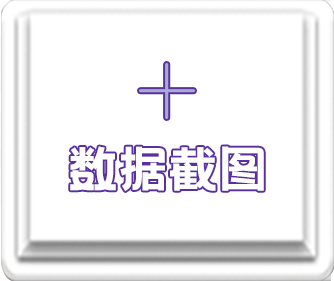
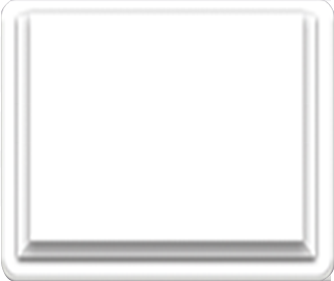
no message

Changed region(s): [[0.1796, 0.5125, 0.8084, 0.7117], [0.3892, 0.1993, 0.5988, 0.427]]

diff --git a/src/views/ProofView.vue b/src/views/ProofView.vue
@@ -21,7 +21,7 @@
                     :on-success="handleAvatarSuccess"
                     :before-upload="beforeAvatarUpload">
                     <img v-if="formData.mediaProof !== ''" :src="formData.mediaProof" class="avatar">
-                    <img v-else src="@/assets/img/proof_pic.png" />
+                    <img v-else src="@/assets/img/proof_pic_content.png"/>
                   </el-upload>
 
                 </div>
@@ -37,7 +37,7 @@
                     :on-success="handleAvatarSuccess2"
                     :before-upload="beforeAvatarUpload2">
                     <img v-if="formData.veidoUrl !== ''" :src="formData.veidoUrl+'?vframe/jpg/offset/0'" class="avatar">
-                    <img v-else src="@/assets/img/proof_video.png" />
+                     <img v-else src="@/assets/img/proof_video_content.png"/>
                   </el-upload>
                  </div>
               </li>
@@ -50,6 +50,7 @@
 
 <script>
 import api from '@/api'
+import router from '@/router'
 
 export default {
   data () {
@@ -95,7 +96,8 @@ export default {
         api.postProof(form).then((res) => {
           this.loading.close()
           if (res.code === 200) {
-            this.$message.success(res.msg)
+            this.$message.success('恭喜你，作业提交成功')
+            router.back()
           } else {
             this.$message.error(res.msg)
           }
@@ -223,20 +225,10 @@ export default {
           const img = new Image()
           img.src = reader.result
           if (img.complete) { // 如果存在浏览器缓存中
-            if (img.height / img.width < 1.2 || img.height / img.width > 1.8) {
-              this.$message.warning('上传的图片尺寸比例不合适，推荐比例4:3')
-              resolve(false)
-            } else {
-              resolve(true)
-            }
+            resolve(true)
           } else {
             img.onload = () => {
-              if (img.height / img.width < 1.2 || img.height / img.width > 1.8) {
-                this.$message.warning('上传的图片尺寸比例不合适，推荐比例4:3')
-                resolve(false)
-              } else {
-                resolve(true)
-              }
+              resolve(true)
             }
           }
         }
@@ -322,14 +314,32 @@ export default {
     padding: 0 22vw;
     margin-top: 2vw;
     .btn_proof_pic{
+      width: 25vw;
+      height: 21vw;
+      background-image: url('@/assets/img/proof_pic.png');
+      background-position: center center;
+      background-repeat: no-repeat;
+      background-size: cover;
       img{
-        width: 25vw;
+        width: 21vw;
+        height: 17vw;
+        margin-top: 1.3vw;
+        border-radius: 1px;
         object-fit: cover;
       }
     }
     .btn_proof_video{
+      width: 25vw;
+      height: 21vw;
+      background-image: url('@/assets/img/proof_video.png');
+      background-position: center center;
+      background-repeat: no-repeat;
+      background-size: cover;
       img{
-        width: 25vw;
+        width: 21vw;
+        height: 17vw;
+        margin-top: 1.3vw;
+        border-radius: 1px;
         object-fit: cover;
       }
     }

diff --git a/src/views/GuideView.vue b/src/views/GuideView.vue
@@ -4,8 +4,8 @@
        <div class="ap_box">
         <ul>
           <li><button class="button_1 magictime boingInUp" @click="gotoApplyView" /></li>
-          <li><button class="button_2 magictime boingInUp" style="animation-delay: 0.2s;" @click="gotoVoteView" /></li>
-          <li><button class="button_3 magictime boingInUp" style="animation-delay: 0.4s;" @click="gotoProofView" /></li>
+          <!-- <li><button class="button_2 magictime boingInUp" style="animation-delay: 0.2s;" @click="gotoVoteView" /></li> -->
+          <li><button class="button_3 magictime boingInUp" style="animation-delay: 0.2s;" @click="gotoProofView" /></li>
         </ul>
        </div>
     </div>
@@ -35,7 +35,7 @@ export default {
       // this.$message.warning('投票尚未开放')
     },
     gotoProofView () {
-      // this.$message.warning('上传资料尚未开放')
+      router.push({ name: 'proof', params: {} })
     }
   }
 }
